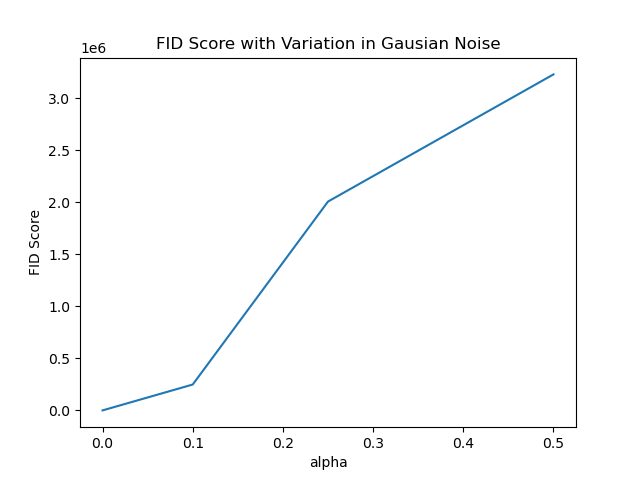
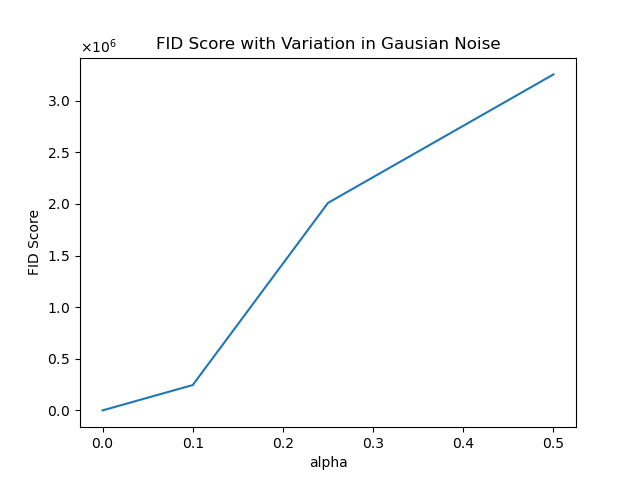
Update Y axis scientific notation

diff --git a/test.py b/test.py
@@ -1,4 +1,5 @@
 import matplotlib.pyplot as plt
+from matplotlib import ticker
 import seaborn as sns
 import numpy as np
 import tensorflow as tf
@@ -18,6 +19,7 @@ SAMPLE_SIZE = 5000
 gan_model = GAN()
 gan_model.dataset = gan_model.load_data()
 training_cats = gan_model.real_samples(SAMPLE_SIZE)
+
 
 # print(training_cats.shape)
 
@@ -45,6 +47,7 @@ fig = sns.lineplot(x=alpha_gnoise, y=fid_gnoise)
 fig.set(xlabel='alpha',
         ylabel='FID Score',
         title='FID Score with Variation in Gausian Noise')
+plt.ticklabel_format(axis='y', style='sci', scilimits=(-1, 1), useMathText=True)
 plt.savefig('fid_GaussianNoise.png')
 plt.clf()
 
@@ -61,6 +64,7 @@ fig = sns.lineplot(x=alpha_gblur, y=fid_gblur)
 fig.set(xlabel='alpha',
         ylabel='FID Score',
         title='FID Score with Variation in Gaussian Blur')
+plt.ticklabel_format(axis='y', style='sci', scilimits=(-1, 1), useMathText=True)
 plt.savefig('fid_GaussianBlur.png')
 plt.clf()
 
@@ -75,6 +79,7 @@ fig = sns.lineplot(x=alpha_rect, y=fid_rect)
 fig.set(xlabel='alpha',
         ylabel='FID Score',
         title='FID Score with Variation in Random Rectangles')
+plt.ticklabel_format(axis='y', style='sci', scilimits=(-1, 1), useMathText=True)
 plt.savefig('fid_Rect.png')
 plt.clf()
 
@@ -89,5 +94,6 @@ fig = sns.lineplot(x=alpha_swirl, y=fid_swirl)
 fig.set(xlabel='alpha',
         ylabel='FID Score',
         title='FID Score with Variation in Swirl')
+plt.ticklabel_format(axis='y', style='sci', scilimits=(-1, 1), useMathText=True)
 plt.savefig('fid_Swirl.png')
 plt.clf()
